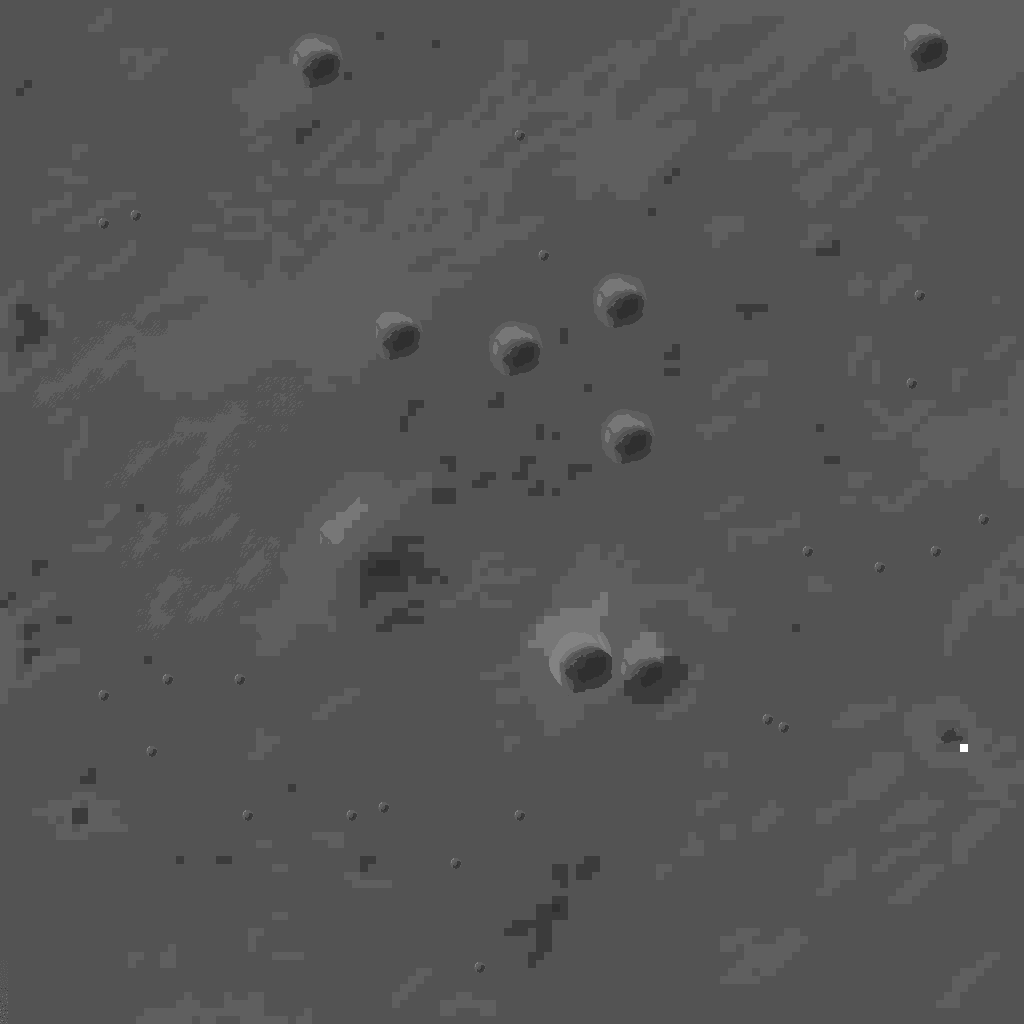
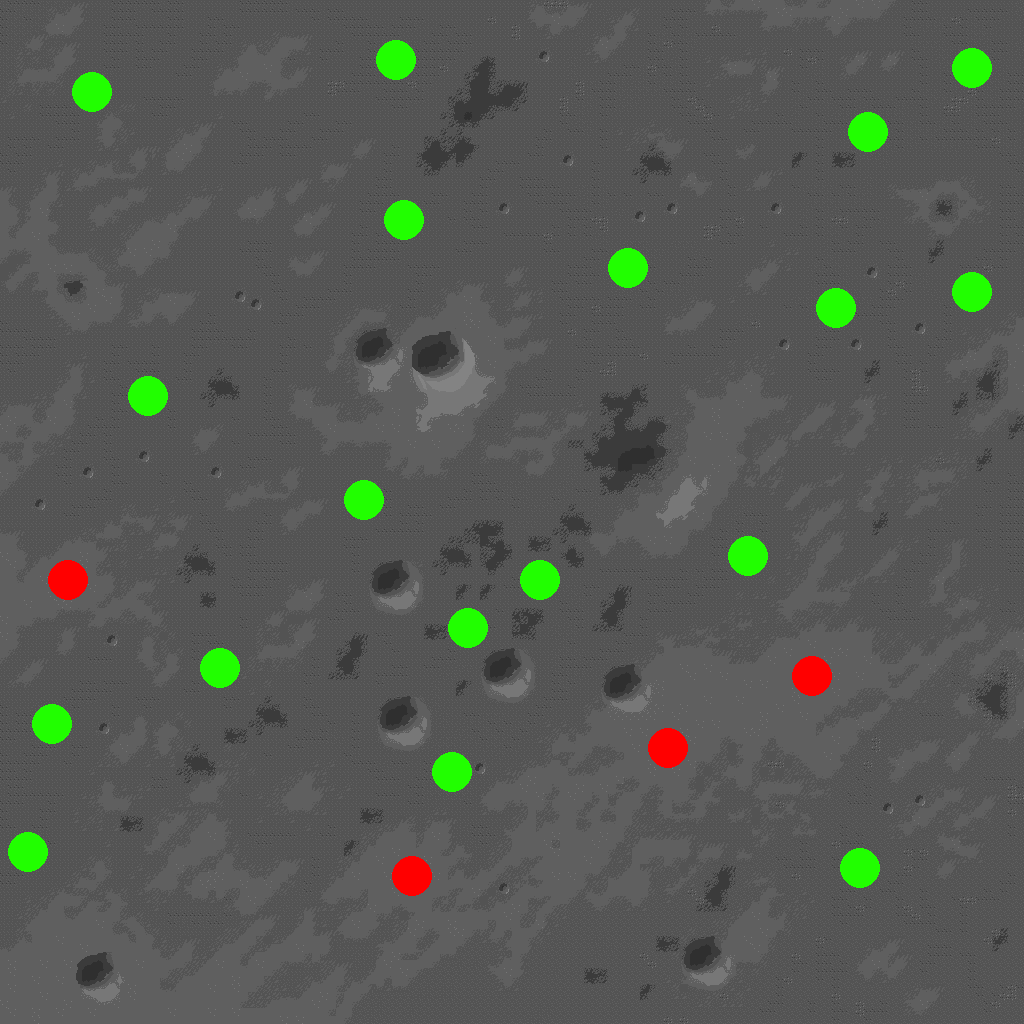
fix: fix palette indexes and load new maps

diff --git a/source/affine_background.c b/source/affine_background.c
@@ -83,7 +83,7 @@ void map_swap(const Lander *lander) {
                     // Load background tilemap in SBB 24
                     memcpy16(se_mem[24], AREAS[i].map, AREAS[i].map_len / 2);
                     // Load background palette
-                    memcpy16(pal_bg_mem, AREAS[i].pal, AREAS[i].pal_len / 2 - 3); // first 13 colours
+                    memcpy16(pal_bg_mem, AREAS[i].pal, AREAS[i].pal_len / 2);
                     REG_BG2CNT = (REG_BG2CNT & ~(BG_SIZE_MASK | BG_SBB_MASK | BG_WRAP)) | BG_AFF_128x128 | BG_SBB(24);
                     break;
             }
@@ -103,7 +103,7 @@ void map_swap(const Lander *lander) {
         // Load background tilemap in SBB 28
         memcpy16(se_mem[28], moon_far_v3Map, moon_far_v3MapLen / 2);
         // Load background palette
-        memcpy16(pal_bg_mem, moon_far_v3Pal, moon_far_v3PalLen / 2 - 3); // first 13 colours
+        memcpy16(pal_bg_mem, moon_far_v3Pal, moon_far_v3PalLen / 2);
         REG_BG2CNT = (REG_BG2CNT & ~(BG_SIZE_MASK | BG_SBB_MASK)) | BG_AFF_64x64 | BG_WRAP | BG_SBB(28);
         }
     }

diff --git a/source/hud.c b/source/hud.c
@@ -25,7 +25,7 @@
 #define VY_FULL_SCALE (FIX_FROM_INT(12)) // m/s in Q16.16 TODO: check when fine tuning
 #define W_FULL_SCALE (FIX_FROM_INT(6)) // rad/s in Q16.16 TODO: check when fine tuning
 
-#define HUD_LAMP_PAL_BASE 19   // first live palette index of the lamps
+#define HUD_LAMP_PAL_BASE (HUD_BACKGROUND_PAL_BASE + 5)   // first live palette index of the lamps
 #define HUD_LAMP_ON_STEP  10   // lit colour = unlit colour + 10
 #define HUD_LAMP_OFF ((HUD_LAMP_PAL_BASE) - (HUD_BACKGROUND_PAL_BASE))
 #define HUD_LAMP_ON  ((HUD_LAMP_OFF) + (HUD_LAMP_ON_STEP))

diff --git a/include/hud.h b/include/hud.h
@@ -7,7 +7,7 @@
 
 #define MAX_SPRITES 128
 // HUD background palette is loaded into pal_bg_mem at this offset (see hud.c lamps)
-#define HUD_BACKGROUND_PAL_BASE 14
+#define HUD_BACKGROUND_PAL_BASE 25
 // Index into pal_bg_mem of the speedbar "ruler" colour
 // (offset 25 within HUD_1Pal, relocated by HUD_BACKGROUND_PAL_BASE on load)
 #define HUD_SPEED_RULER_PAL_IDX ((HUD_BACKGROUND_PAL_BASE) + 25)
